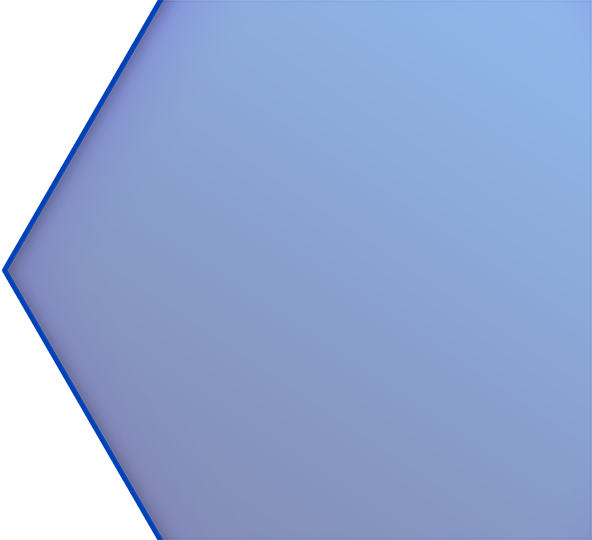
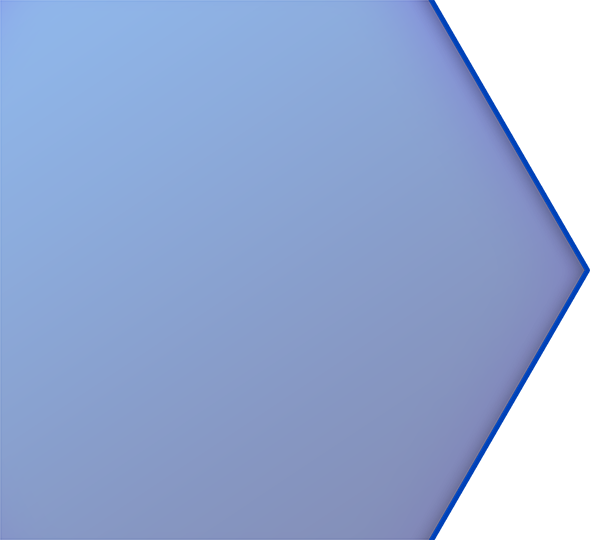
Flipped pause screen

diff --git a/Assets/Scripts/GUI Scripts/GUIControls/PauseMenu.js b/Assets/Scripts/GUI Scripts/GUIControls/PauseMenu.js
@@ -21,7 +21,7 @@ public class PauseMenu extends GUIControl
 	public var pauseText : Texture;
 	private var pauseTextRect : Rect;
 	private var pauseTextPercent:float = 0.14;
-	private var pauseTextX : float = 0.54;
+	private var pauseTextX : float = .04;//0.54;
 	private var pauseTextY : float = 0.23;
 	
 	// Back Button
@@ -29,7 +29,7 @@ public class PauseMenu extends GUIControl
 	public var backButtonPressed : Texture;
 	private var backButtonRect : Rect;
 	private var backButtonPercent:float = 0.11;
-	private var backButtonX : float = 0.03;
+	private var backButtonX : float = .8;//0.03;
 	private var backButtonY : float = 0.05;
 	
 	// Restart Button
@@ -51,12 +51,12 @@ public class PauseMenu extends GUIControl
 	private var buttonPercent: float = 0.11;
 	private var buttonBufferPercent: float = 0.04;
 	private var buttonInitialYPercent: float = 0.45;
-	private var buttonXPercent: float = 0.59;
+	private var buttonXPercent: float = .09;//0.59;
 	
 	// Hex Texture
 	public var hexText : Texture;
 	private var hexTextRect : Rect;
-	private var hexTextX : float = 0.39;
+	private var hexTextX : float = 0;//0.39;
 	private var hexTextY : float = 0;
 	private var hexPercent : float = 1;
 
@@ -138,7 +138,7 @@ public class PauseMenu extends GUIControl
 		GUI.DrawTexture(pauseTextRect, pauseText, ScaleMode.StretchToFill);
 		var oldAnchor : TextAnchor = GUI.skin.label.alignment;
 		GUI.skin.label.alignment = TextAnchor.MiddleLeft;
-		GUI.Label(levelRect, levelName);
+		//GUI.Label(levelRect, levelName);
 		GUI.skin.label.alignment = oldAnchor;
 		
 		// Buttons are rendered:
